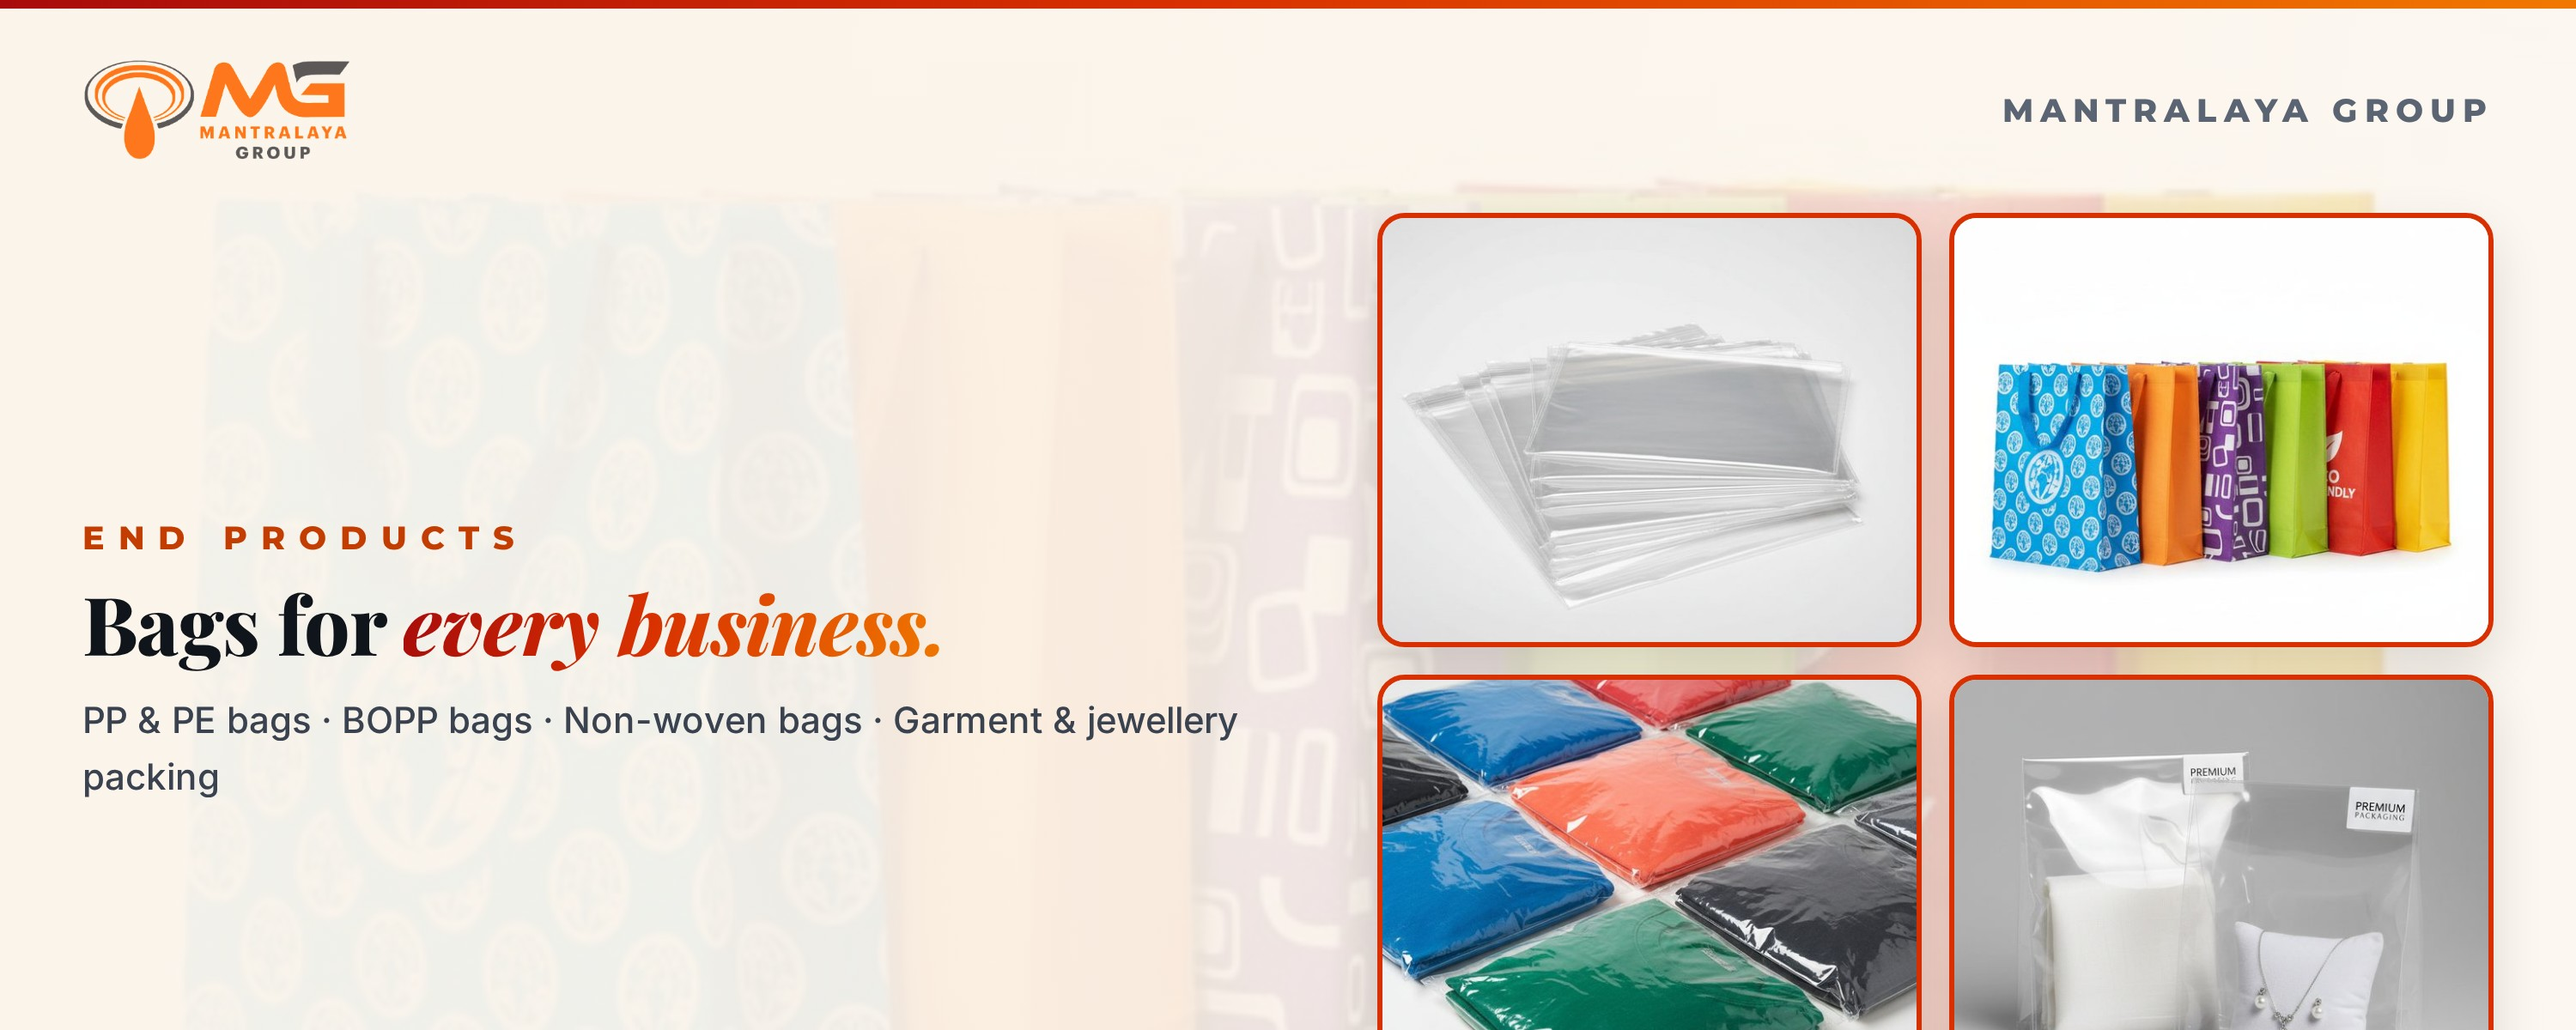
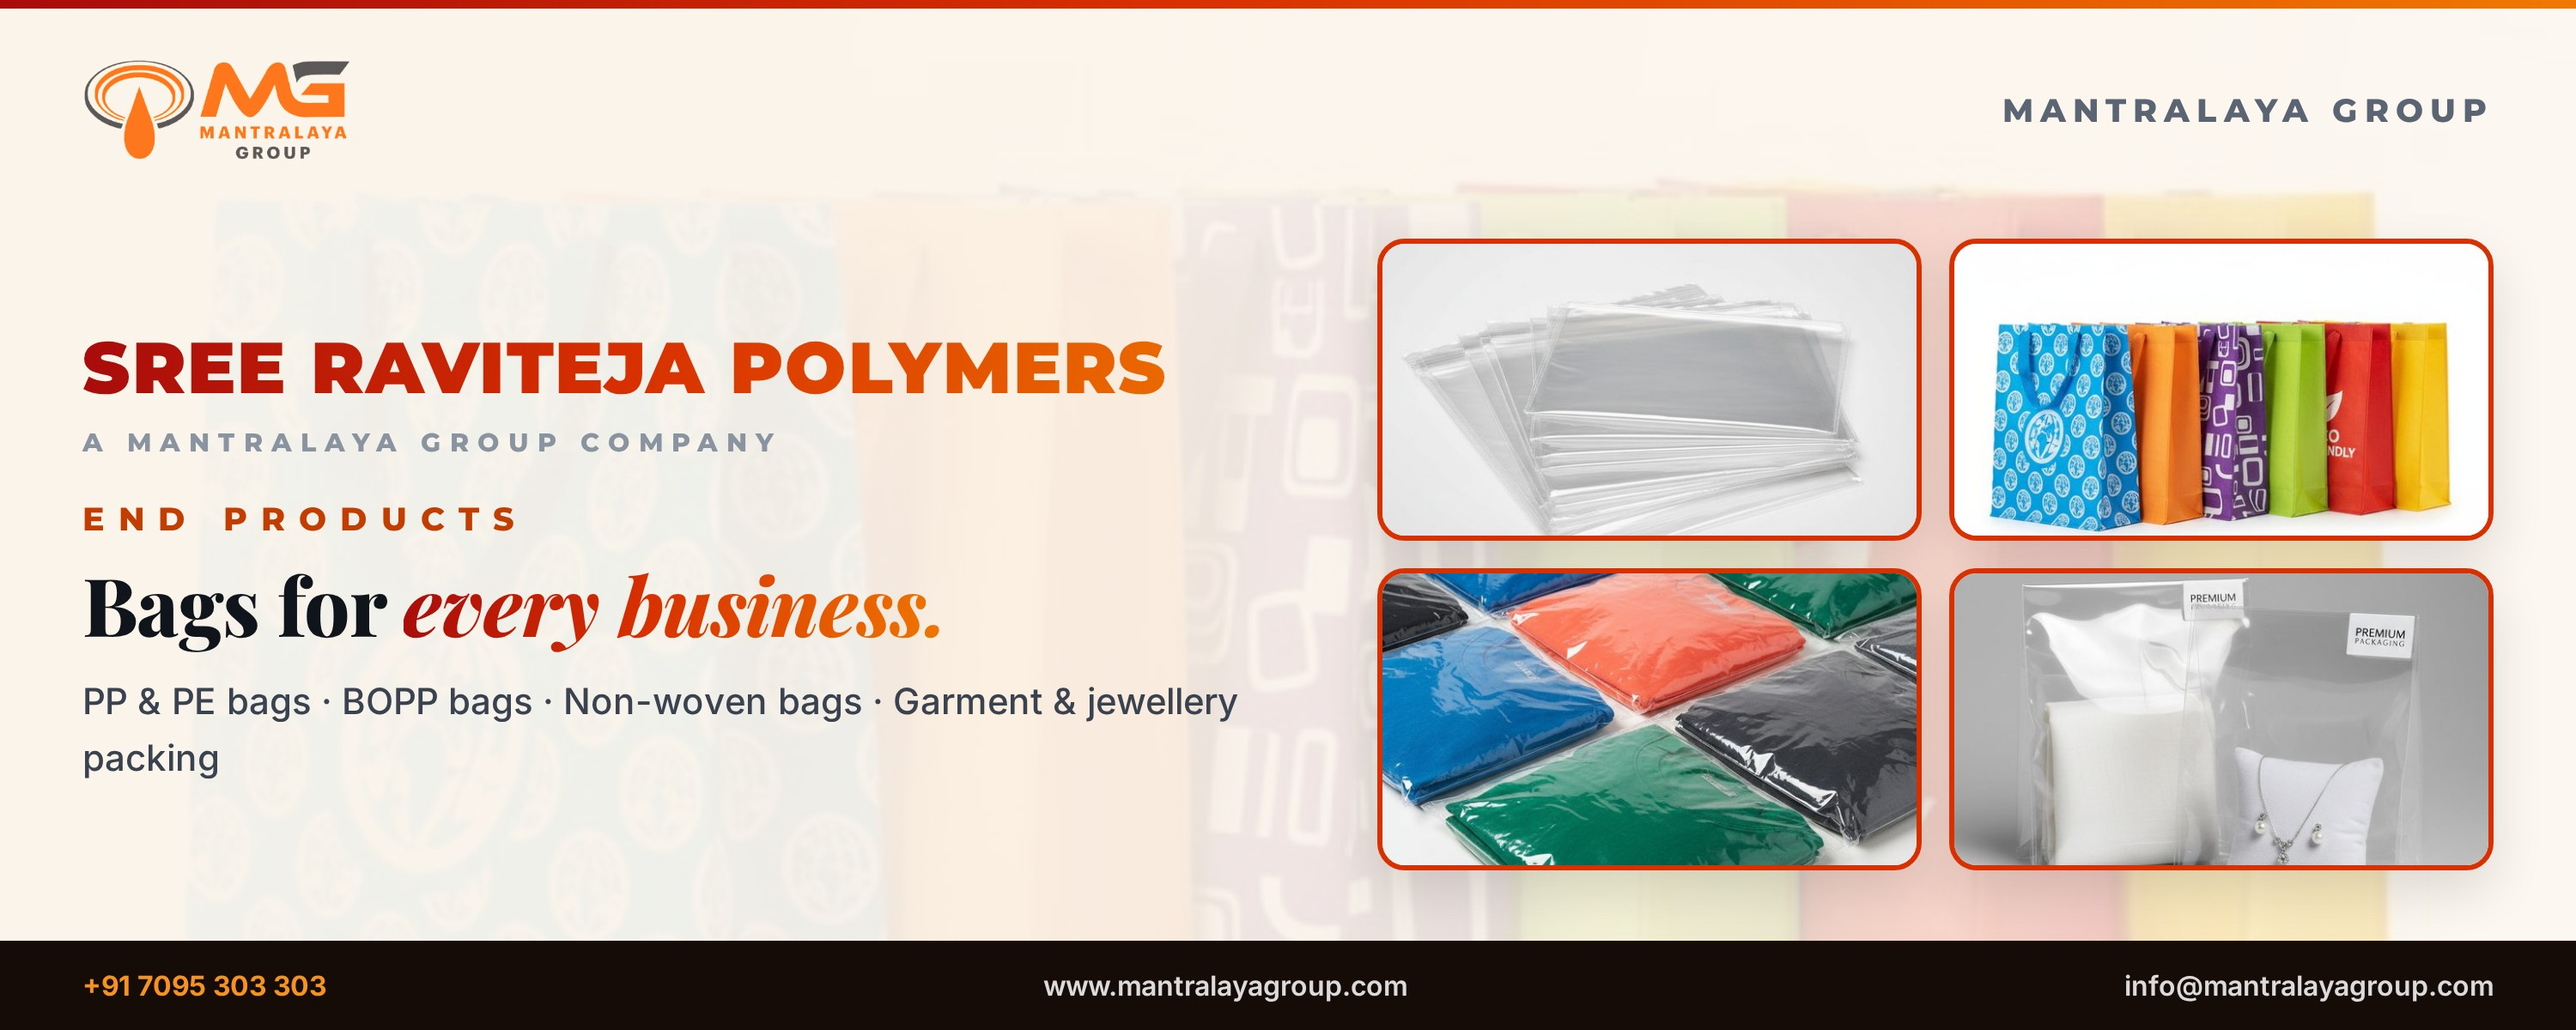
Poster 09 bags: Sree Raviteja Polymers hero + fixed tile clipping (2000x800 ratio)

diff --git a/posters/src/poster-09-bags--dark.html b/posters/src/poster-09-bags--dark.html
@@ -22,9 +22,9 @@ body{width:1500px;height:600px;overflow:hidden;position:relative;font-family:'Mo
 .cohero{font-size:42px;font-weight:900;letter-spacing:1px;background:linear-gradient(100deg,#FF6A2B,#F6921E 60%,#FFC46B);-webkit-background-clip:text;background-clip:text;color:transparent;}
 .cotag{margin-top:8px;margin-bottom:24px;font-size:15px;font-weight:800;letter-spacing:5px;color:rgba(255,255,255,0.6)}
 .tiles{flex:1;display:grid;grid-template-columns:repeat(2,1fr);gap:16px}
-.tile{border-radius:16px;overflow:hidden;border:3px solid rgba(240,120,0,0.7);aspect-ratio:1.25;box-shadow:0 12px 30px rgba(0,0,0,0.4)}
+.tile{border-radius:16px;overflow:hidden;border:3px solid rgba(240,120,0,0.7);aspect-ratio:1.8;box-shadow:0 12px 30px rgba(0,0,0,0.4)}
 .tile img{width:100%;height:100%;object-fit:cover}
 .tiles.three .tile{aspect-ratio:1.5}
 .tiles.three .tile:nth-child(3){grid-column:span 2;aspect-ratio:3.8}
 </style><div class="bgimg"><img src="../../products/non-woven-bags.jpg"></div><div class="rule"></div><div class="hdr"><img src="../../mg-logo-dark.png"><div class="co">MANTRALAYA GROUP</div></div>
-<div class="wrap z"><div class="lt"><div class="label">END PRODUCTS</div><div class="cap cap2">Bags for <em>every business.</em></div><div class="sub">PP &amp; PE bags · BOPP bags · Non-woven bags · Garment &amp; jewellery packing</div></div><div class="tiles"><div class="tile"><img src="../../products/pp-bags.jpg"></div><div class="tile"><img src="../../products/non-woven-bags.jpg"></div><div class="tile"><img src="../../products/garment-bags.jpg"></div><div class="tile"><img src="../../products/bopp-bags.jpg"></div></div></div><div class="ftr"><span><b>+91 7095 303 303</b></span><span>www.mantralayagroup.com</span><span>info@mantralayagroup.com</span></div></body></html>
+<div class="wrap z"><div class="lt"><div class="cohero">SREE RAVITEJA POLYMERS</div><div class="cotag">A MANTRALAYA GROUP COMPANY</div><div class="label">END PRODUCTS</div><div class="cap cap2">Bags for <em>every business.</em></div><div class="sub">PP &amp; PE bags · BOPP bags · Non-woven bags · Garment &amp; jewellery packing</div></div><div class="tiles"><div class="tile"><img src="../../products/pp-bags.jpg"></div><div class="tile"><img src="../../products/non-woven-bags.jpg"></div><div class="tile"><img src="../../products/garment-bags.jpg"></div><div class="tile"><img src="../../products/bopp-bags.jpg"></div></div></div><div class="ftr"><span><b>+91 7095 303 303</b></span><span>www.mantralayagroup.com</span><span>info@mantralayagroup.com</span></div></body></html>

diff --git a/posters/src/poster-09-bags--light.html b/posters/src/poster-09-bags--light.html
@@ -22,9 +22,9 @@ body{width:1500px;height:600px;overflow:hidden;position:relative;font-family:'Mo
 .cohero{font-size:42px;font-weight:900;letter-spacing:1px;background:linear-gradient(100deg,#A80B0B,#D83000 45%,#F07800);-webkit-background-clip:text;background-clip:text;color:transparent;}
 .cotag{margin-top:8px;margin-bottom:24px;font-size:15px;font-weight:800;letter-spacing:5px;color:#8A93A0}
 .tiles{flex:1;display:grid;grid-template-columns:repeat(2,1fr);gap:16px}
-.tile{border-radius:16px;overflow:hidden;border:3px solid #D83000;aspect-ratio:1.25;box-shadow:0 12px 30px rgba(0,0,0,0.12)}
+.tile{border-radius:16px;overflow:hidden;border:3px solid #D83000;aspect-ratio:1.8;box-shadow:0 12px 30px rgba(0,0,0,0.12)}
 .tile img{width:100%;height:100%;object-fit:cover}
 .tiles.three .tile{aspect-ratio:1.5}
 .tiles.three .tile:nth-child(3){grid-column:span 2;aspect-ratio:3.8}
 </style><div class="bgimg"><img src="../../products/non-woven-bags.jpg"></div><div class="rule"></div><div class="hdr"><img src="../../mg-logo.png"><div class="co">MANTRALAYA GROUP</div></div>
-<div class="wrap z"><div class="lt"><div class="label">END PRODUCTS</div><div class="cap cap2">Bags for <em>every business.</em></div><div class="sub">PP &amp; PE bags · BOPP bags · Non-woven bags · Garment &amp; jewellery packing</div></div><div class="tiles"><div class="tile"><img src="../../products/pp-bags.jpg"></div><div class="tile"><img src="../../products/non-woven-bags.jpg"></div><div class="tile"><img src="../../products/garment-bags.jpg"></div><div class="tile"><img src="../../products/bopp-bags.jpg"></div></div></div><div class="ftr"><span><b>+91 7095 303 303</b></span><span>www.mantralayagroup.com</span><span>info@mantralayagroup.com</span></div></body></html>
+<div class="wrap z"><div class="lt"><div class="cohero">SREE RAVITEJA POLYMERS</div><div class="cotag">A MANTRALAYA GROUP COMPANY</div><div class="label">END PRODUCTS</div><div class="cap cap2">Bags for <em>every business.</em></div><div class="sub">PP &amp; PE bags · BOPP bags · Non-woven bags · Garment &amp; jewellery packing</div></div><div class="tiles"><div class="tile"><img src="../../products/pp-bags.jpg"></div><div class="tile"><img src="../../products/non-woven-bags.jpg"></div><div class="tile"><img src="../../products/garment-bags.jpg"></div><div class="tile"><img src="../../products/bopp-bags.jpg"></div></div></div><div class="ftr"><span><b>+91 7095 303 303</b></span><span>www.mantralayagroup.com</span><span>info@mantralayagroup.com</span></div></body></html>

diff --git a/posters/gen2.py b/posters/gen2.py
@@ -84,7 +84,7 @@ def appsposter(w,h,dark,label,cap,cols_data,bgphoto):
 </style>{bgimg(bgphoto)}{hdr(dark)}
 <div class="wrap z"><div class="label">{label}</div><div class="cap cap2">{cap}</div><div class="cols">{cols}</div></div>{FOOT}"""
 
-def duoposter(w,h,dark,label,cap,sub,photos,bgphoto,co='MANTRALAYA GROUP',cohero=None):
+def duoposter(w,h,dark,label,cap,sub,photos,bgphoto,co='MANTRALAYA GROUP',cohero=None,tile_ar=None):
     tcls = 'tiles three' if len(photos)==3 else 'tiles'
     hero = ''
     if cohero:
@@ -99,7 +99,7 @@ def duoposter(w,h,dark,label,cap,sub,photos,bgphoto,co='MANTRALAYA GROUP',cohero
 .cohero{{font-size:42px;font-weight:900;letter-spacing:1px;{GT_W if dark else GT_D}}}
 .cotag{{margin-top:8px;margin-bottom:24px;font-size:15px;font-weight:800;letter-spacing:5px;color:{'rgba(255,255,255,0.6)' if dark else '#8A93A0'}}}
 .tiles{{flex:1;display:grid;grid-template-columns:repeat(2,1fr);gap:16px}}
-.tile{{border-radius:16px;overflow:hidden;border:3px solid {'rgba(240,120,0,0.7)' if dark else '#D83000'};aspect-ratio:1.25;box-shadow:0 12px 30px rgba(0,0,0,{'0.4' if dark else '0.12'})}}
+.tile{{border-radius:16px;overflow:hidden;border:3px solid {'rgba(240,120,0,0.7)' if dark else '#D83000'};aspect-ratio:{tile_ar or 1.25};box-shadow:0 12px 30px rgba(0,0,0,{'0.4' if dark else '0.12'})}}
 .tile img{{width:100%;height:100%;object-fit:cover}}
 .tiles.three .tile{{aspect-ratio:1.5}}
 .tiles.three .tile:nth-child(3){{grid-column:span 2;aspect-ratio:3.8}}
@@ -481,7 +481,7 @@ def build(dark):
     v['poster-08-sutli-ropes'] = (1500,600, duoposter(1500,600,dark,'END PRODUCTS',f"Sutli, ropes &amp; twine — {em('every budget.')}",
       'Sutli under multiple brands · Reprocessed plastic granules from recycled waste.',['plastic-sutli','rope-yellow','recycled-granules'],'ropes',cohero='BALA GANESHA POLYMERS'))
     v['poster-09-bags'] = (1500,600, duoposter(1500,600,dark,'END PRODUCTS',f"Bags for {em('every business.')}",
-      'PP &amp; PE bags · BOPP bags · Non-woven bags · Garment &amp; jewellery packing',['pp-bags','non-woven-bags','garment-bags','bopp-bags'],'non-woven-bags'))
+      'PP &amp; PE bags · BOPP bags · Non-woven bags · Garment &amp; jewellery packing',['pp-bags','non-woven-bags','garment-bags','bopp-bags'],'non-woven-bags',cohero='SREE RAVITEJA POLYMERS',tile_ar=1.8))
     v['poster-10-films'] = (1000,1000, photoposter(1000,1000,dark,'POLY FILMS','Films that protect what you make.','Treated rolls · Stretch film · Packaging films','treated-rolls'))
     v['poster-11-pands'] = (1000,1500, collageposter(1000,1500,dark,'PRODUCTS &amp; STORES',f"Everything plastic.<br>{em('Off the shelf.')}",
       'Retail &amp; bulk — explore the full catalogue.','productsandstores.com',['coloured-granules','plastic-sutli','pp-bags','pigments','ropes','non-woven-bags']))
